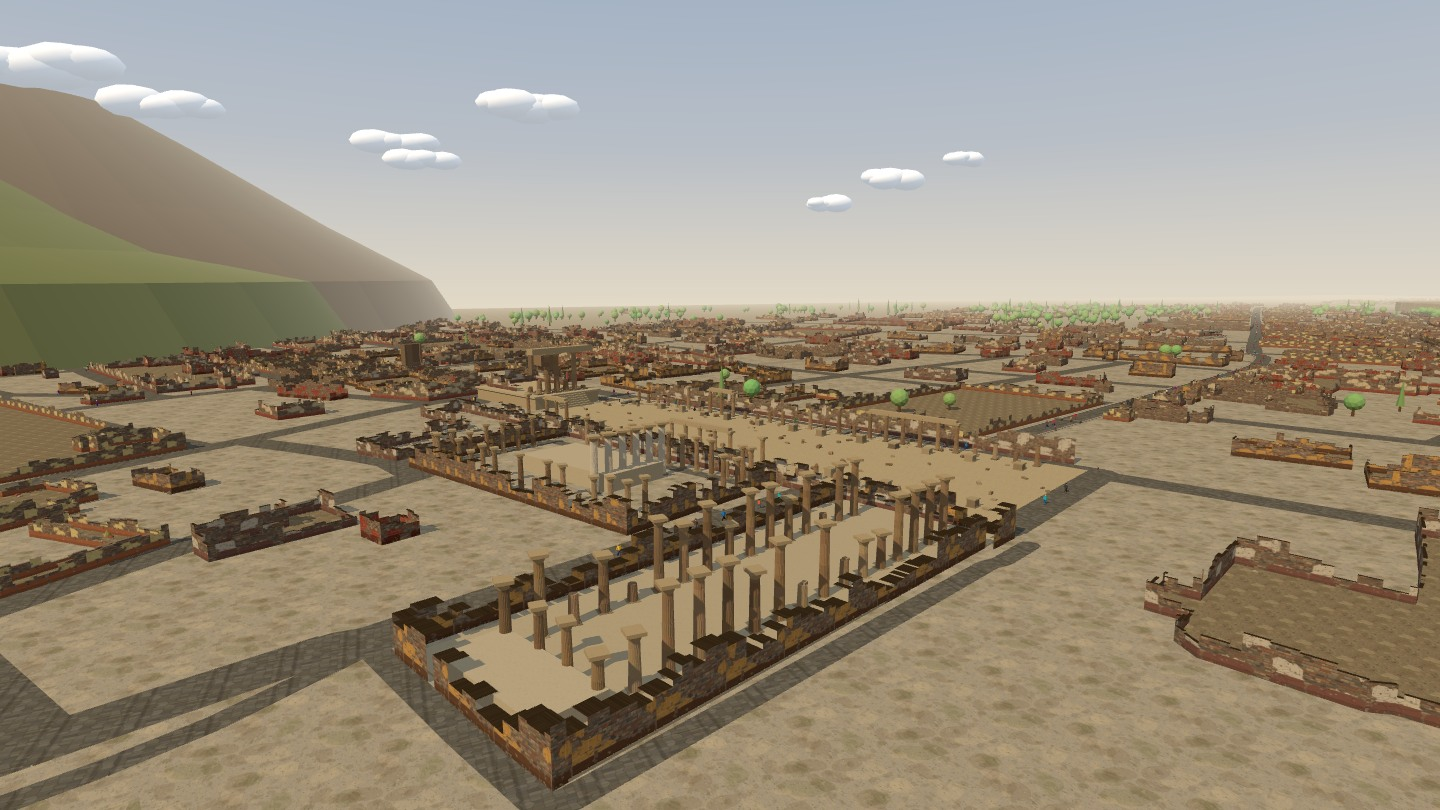
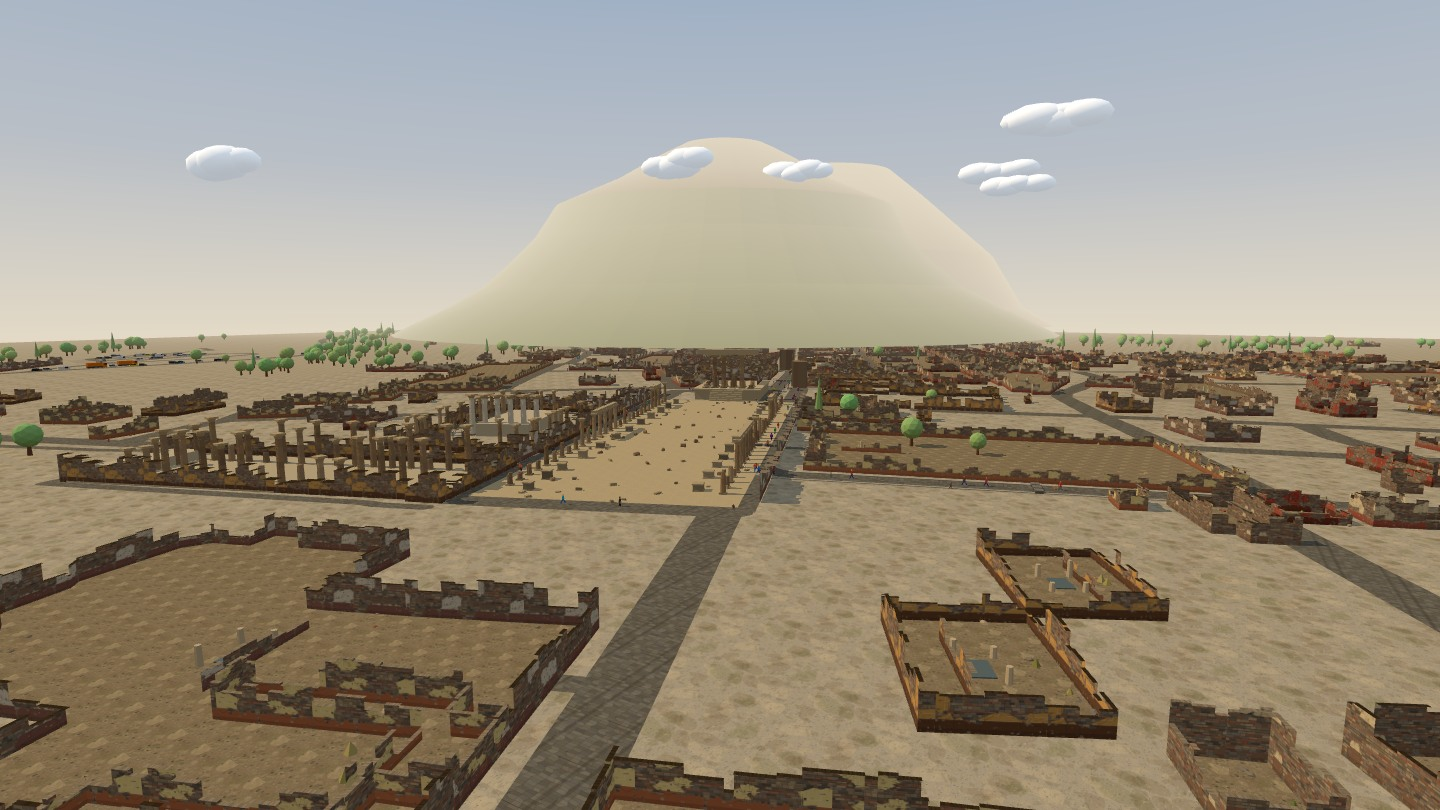
Refine Pompeii's distant volcano silhouette and preview view

diff --git a/pompeii/vesuvius.js b/pompeii/vesuvius.js
@@ -13,11 +13,11 @@ function vesuvius() {
   const cone = (pts, hex, x = 0, z = 0) => kit.add(new THREE.LatheGeometry(pts.map(([r, y]) => new THREE.Vector2(r * S, y * S)), 40), hex, x * S, 0, z * S);
   // The foot, green with vineyards and woods, then the bare cone. A buried skirt
   // continues below the far horizon so the mountain has no floating lower edge.
-  cone([[4800, -1200], [3800, 0], [3100, 140], [2600, 320], [2100, 520], [1700, 760]], GREEN);
+  cone([[3200, -200], [2700, 0], [2400, 140], [2150, 320], [1900, 520], [1700, 760]], GREEN);
   cone([[1700, 760], [1100, 980], [700, 1170], [430, 1281], [330, 1240], [250, 1180]], SLOPE);
   cone([[250, 1180], [330, 1240], [430, 1281]], ROCK);
   // Monte Somma, the older rim, round the north-east side of it
-  cone([[4200, -1200], [3300, 0], [2400, 400], [1400, 900], [900, 1132], [600, 1132]], ROCK, 1300, -1400);
+  cone([[2300, -150], [2000, 0], [1700, 400], [1000, 900], [650, 1132], [400, 1132]], ROCK, 700, -1000);
   const m = kit.mesh(kitMat(1));
   m.scale.y = 1.25; // a little steeper than it is: far off it would not read
   return m;
@@ -25,4 +25,4 @@ function vesuvius() {
 
 // 40.8214 N, 14.4260 E
 const [X, Z] = game(40.8214, 14.4260);
-export const VESUVIUS = [{ id: 'vesuvio', name: 'Vesuvio', x: X, z: Z, turn: 0, reach: 100, far: 10, loom: 1.2, make: vesuvius }];
+export const VESUVIUS = [{ id: 'vesuvio', name: 'Vesuvio', x: X, z: Z, turn: 0, reach: 100, far: 8, loom: 1.2, make: vesuvius }];
